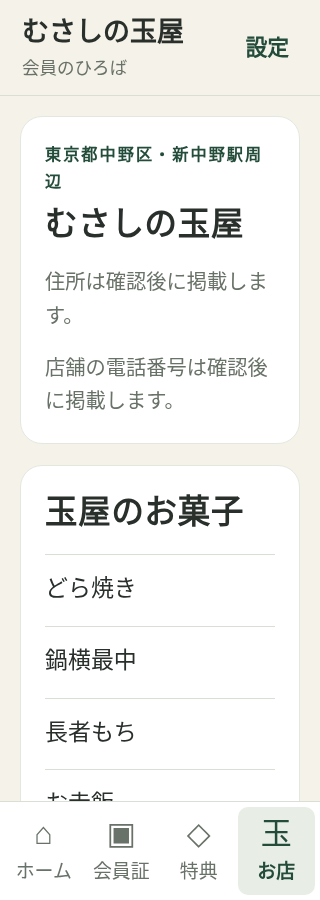
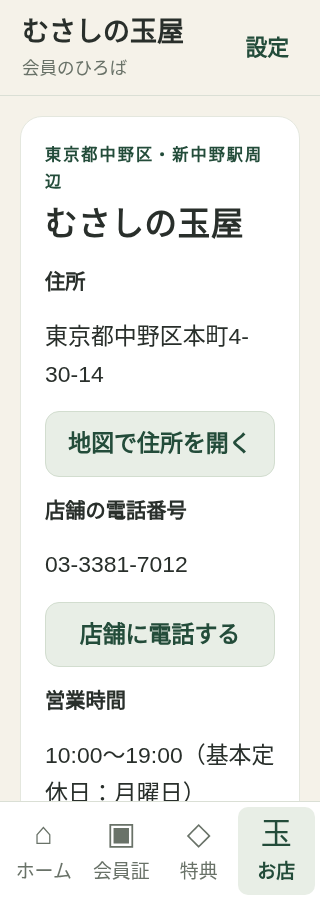
Publish provided store details and hide product listings

Changed region(s): [[0.125, 0.28, 0.875, 0.9022], [0.625, 0.8089, 0.8438, 0.8711], [0.7812, 0.28, 0.8125, 0.3422]]

diff --git a/src/screens/CustomerScreens.tsx b/src/screens/CustomerScreens.tsx
@@ -238,18 +238,6 @@ export function CustomerScreens({ tab, data, onTab, onRegister }: Props) {
         {tab === 'お店' && (
           <>
             <View style={cs.storeIntro}><Text style={styles.eyebrow}>お店のご案内</Text><Text accessibilityRole="header" style={[cs.shopName, { marginTop: 8 }]}>{shop.name}</Text><Muted>{shop.area}</Muted><View style={cs.storeAccent} /></View>
-            <SectionHeader title="玉屋のお菓子" caption="おなじみの、四つの名前" />
-            <View style={cs.productGrid}>
-              {shop.products.map((product, index) => (
-                <View key={product.id} style={[cs.product, { width: wide ? '23.5%' : '47.8%' }]}>
-                  <View accessibilityElementsHidden importantForAccessibility="no-hide-descendants" style={[cs.productArt, index === 1 && { backgroundColor: '#EEEBE1' }, index === 2 && { backgroundColor: '#EDF1E8' }, index === 3 && { backgroundColor: '#F1E8E5' }]}><Text accessible={false} allowFontScaling={false} style={[cs.productSymbol, index === 3 && { color: '#9A6559' }]}>{product.motif}</Text><View style={cs.productArtLine} /></View>
-                  <Text style={cs.productName}>{product.name}</Text>
-                  {product.description && <Muted>{product.description}</Muted>}
-                  {product.price !== null && <Text style={styles.label}>{yen(product.price)}円</Text>}
-                </View>
-              ))}
-            </View>
-            <Muted style={{ fontSize: 11, textAlign: 'right' }}>商品は文字と図形によるイメージです。</Muted>
             <Card>
               <Heading style={{ fontSize: 21 }}>店舗情報</Heading>
               <InfoRow label="エリア" value={shop.area} />
@@ -257,7 +245,6 @@ export function CustomerScreens({ tab, data, onTab, onRegister }: Props) {
               <InfoRow label="営業時間" value={shop.hours ?? '店舗情報を確認中です'} />
               <InfoRow label="電話番号" value={shop.phone ?? '店舗情報を確認中です'} />
               {(shop.address || shop.phone) && <View style={styles.row}>{shop.address && <Button label="地図で見る　↗" variant="secondary" onPress={() => { void Linking.openURL(`https://www.google.com/maps/search/?api=1&query=${encodeURIComponent(shop.address!)}`); }} />}{shop.phone && <Button label="電話をかける" variant="secondary" onPress={() => { void Linking.openURL(`tel:${shop.phone}`); }} />}</View>}
-              <Muted style={{ fontSize: 11 }}>商品の取り扱い・価格、店舗情報は試作版では未掲載です。</Muted>
             </Card>
             <SectionHeader title="お知らせ" caption="玉屋からのご案内" />
             <Card style={{ gap: 0 }}>
@@ -366,12 +353,6 @@ const cs = StyleSheet.create({
   couponList: { flexDirection: 'row', flexWrap: 'wrap', gap: 18, justifyContent: 'space-between' },
   storeIntro: { paddingVertical: 8, gap: 10 },
   storeAccent: { width: 44, height: 3, backgroundColor: theme.gold, marginTop: 9 },
-  productGrid: { flexDirection: 'row', gap: 12, flexWrap: 'wrap', justifyContent: 'space-between' },
-  product: { gap: 13, marginBottom: 8 },
-  productArt: { aspectRatio: 1.02, backgroundColor: '#EEE8D8', borderRadius: 20, alignItems: 'center', justifyContent: 'center', overflow: 'hidden' },
-  productSymbol: { fontSize: 91, color: '#A58E62', fontWeight: '300', lineHeight: 112 },
-  productArtLine: { width: '66%', height: 1, backgroundColor: '#B8AB8C', position: 'absolute', bottom: 26, opacity: 0.5 },
-  productName: { color: theme.ink, fontSize: 19, lineHeight: 30, letterSpacing: 1.2, fontWeight: '600' },
   infoRow: { flexDirection: 'row', flexWrap: 'wrap', alignItems: 'flex-start', gap: 12 },
   infoLabel: { width: 85, fontSize: 15, lineHeight: 25, color: theme.muted },
   infoValue: { flex: 1, minWidth: 130, fontSize: 16, lineHeight: 27, color: theme.ink },

diff --git a/tests/production.browser.spec.ts b/tests/production.browser.spec.ts
@@ -301,7 +301,32 @@ test('small screens and larger browser text retain four customer routes and usab
         }
       }
     }
-    await customer.page.getByRole('tab', { name: 'お店', exact: true }).click(); await capture(customer.page, 'shop-small');
+    await customer.page.getByRole('tab', { name: 'お店', exact: true }).click();
+    await expect(customer.page.getByText('東京都中野区本町4-30-14', { exact: true })).toBeVisible();
+    await expect(customer.page.getByText('03-3381-7012', { exact: true })).toBeVisible();
+    await expect(customer.page.getByText('10:00〜19:00（基本定休日：月曜日）', { exact: true })).toBeVisible();
+    await expect(customer.page.getByRole('button', { name: '店舗に電話する', exact: true })).toBeVisible();
+    await expect(customer.page.getByText('会員サービスのお問い合わせ：080-4909-7012', { exact: true })).toBeVisible();
+    await expect(customer.page.getByRole('heading', { name: '玉屋のお菓子', exact: true })).toHaveCount(0);
+    for (const name of ['どら焼き', '鍋横最中', '長者もち', 'お赤飯']) {
+      await expect(customer.page.getByText(name, { exact: true })).toHaveCount(0);
+    }
+    // Exercise the actual map button without navigating to an external service.
+    await customer.page.evaluate(() => {
+      const state = window as unknown as { storeOriginalOpen: typeof window.open; storeOpenedUrl?: string };
+      state.storeOriginalOpen = window.open;
+      window.open = ((url) => { state.storeOpenedUrl = String(url); return null; }) as typeof window.open;
+    });
+    try {
+      await customer.page.getByRole('button', { name: '地図で住所を開く', exact: true }).click();
+      const value = await customer.page.evaluate(() => (window as unknown as { storeOpenedUrl?: string }).storeOpenedUrl);
+      const map = new URL(value!);
+      expect(map.origin).toBe('https://maps.apple.com');
+      expect(map.searchParams.get('q')).toBe('むさしの玉屋 東京都中野区本町4-30-14');
+    } finally {
+      await customer.page.evaluate(() => { window.open = (window as unknown as { storeOriginalOpen: typeof window.open }).storeOriginalOpen; });
+    }
+    await capture(customer.page, 'shop-small');
   } finally { await customer.context.close(); }
 });
 

diff --git a/tests/browser.flows.spec.ts b/tests/browser.flows.spec.ts
@@ -294,6 +294,30 @@ test('customer and staff controls fit each viewport with 48px touch targets and 
   await showSample(page);
   for (const tab of ['ホーム', '会員証', '特典', 'お店']) {
     await page.getByRole('tab', { name: tab, exact: true }).click();
+    if (tab === 'お店') {
+      await expect(page.getByText('東京都中野区本町4-30-14', { exact: true })).toBeVisible();
+      await expect(page.getByText('03-3381-7012', { exact: true })).toBeVisible();
+      await expect(page.getByText('10:00〜19:00（基本定休日：月曜日）', { exact: true })).toBeVisible();
+      await expect(page.getByRole('button', { name: '電話をかける', exact: true })).toBeVisible();
+      await expect(page.getByText('玉屋のお菓子', { exact: true })).toHaveCount(0);
+      for (const name of ['どら焼き', '鍋横最中', '長者もち', 'お赤飯']) {
+        await expect(page.getByText(name, { exact: true })).toHaveCount(0);
+      }
+      await page.evaluate(() => {
+        const state = window as unknown as { storeOriginalOpen: typeof window.open; storeOpenedUrl?: string };
+        state.storeOriginalOpen = window.open;
+        window.open = ((url) => { state.storeOpenedUrl = String(url); return null; }) as typeof window.open;
+      });
+      try {
+        await page.getByRole('button', { name: '地図で見る　↗', exact: true }).click();
+        const value = await page.evaluate(() => (window as unknown as { storeOpenedUrl?: string }).storeOpenedUrl);
+        const map = new URL(value!);
+        expect(map.origin).toBe('https://www.google.com');
+        expect(map.searchParams.get('query')).toBe('東京都中野区本町4-30-14');
+      } finally {
+        await page.evaluate(() => { window.open = (window as unknown as { storeOriginalOpen: typeof window.open }).storeOriginalOpen; });
+      }
+    }
     await expectLayout(page);
     if (tab === 'ホーム') await expectHomeActionAboveNavigation(page);
     await enlargeText(page);

diff --git a/src/production/ProductionApp.tsx b/src/production/ProductionApp.tsx
@@ -310,7 +310,7 @@ function Main({ api, auth }: { api: ProductionApi; auth: AuthPort }) {
       {store.address ? <><Text style={styles.label}>住所</Text><Text selectable style={styles.body}>{store.address}</Text><Button label="地図で住所を開く" variant="secondary" onPress={() => { void openLink(`https://maps.apple.com/?q=${encodeURIComponent(`${store.name} ${store.address}`)}`); }} /></> : <Muted>住所は確認後に掲載します。</Muted>}
       {store.phone ? <><Text style={styles.label}>店舗の電話番号</Text><Text selectable style={styles.body}>{store.phone}</Text><Button label="店舗に電話する" variant="secondary" onPress={() => { if (store.phone) void openLink(`tel:${store.phone.replace(/[^+\d]/g, '')}`); }} /></> : <Muted>店舗の電話番号は確認後に掲載します。</Muted>}
       {store.hours && <><Text style={styles.label}>営業時間</Text><Text style={styles.body}>{store.hours}</Text></>}
-    </Card><Card><Heading>玉屋のお菓子</Heading>{store.products.map((product) => <View key={product.id} style={s.listItem}><Text style={styles.body}>{product.name}</Text></View>)}</Card>
+    </Card>
       <Notices notices={notices} /><RuleNote store={store} /><Card><Heading>アプリについて</Heading>
         <Muted>会員サービス運営者：{store.operator.name}</Muted><Muted>会員サービスのお問い合わせ：{store.operator.phone}</Muted>
         <Button label="お問い合わせ・機種変更のご案内" variant="secondary" onPress={() => setLegal('support')} />

diff --git a/src/config/shop.ts b/src/config/shop.ts
@@ -1,18 +1,14 @@
 export const shop = {
   name: 'むさしの玉屋',
   area: '東京都中野区・新中野駅周辺',
-  address: null as string | null,
-  phone: null as string | null,
-  hours: null as string | null,
+  address: '東京都中野区本町4-30-14' as string | null,
+  phone: '03-3381-7012' as string | null,
+  hours: '10:00〜19:00（基本定休日：月曜日）' as string | null,
+  informationSource: '店舗関係者からの提供情報（2026年10月31日）',
   colors: {
     cream: '#F5F2E9', white: '#FFFFFF', ink: '#292F2B', green: '#234C3A',
     muted: '#697268', line: '#DADFD5', pale: '#E8EEE6', gold: '#92753E',
   },
-  products: [
-    { id: 'dorayaki', name: 'どら焼き', motif: '〇', description: null, price: null },
-    { id: 'monaka', name: '鍋横最中', motif: '◇', description: null, price: null },
-    { id: 'mochi', name: '長者もち', motif: '◯', description: null, price: null },
-    { id: 'sekihan', name: 'お赤飯', motif: '▦', description: null, price: null },
-  ],
+  products: [] as { id: string; name: string; motif: string; description: string | null; price: number | null }[],
   reward: { stampsRequired: 10, discountYen: 100, validityDays: 30, dailyLimit: 1 },
 } as const;

diff --git a/docs/PRODUCTION_HANDOVER.md b/docs/PRODUCTION_HANDOVER.md
@@ -27,7 +27,7 @@
 
 スタンプ・特典条件と、メール・パスワードによるログインは回答済みです。500円以上の対象商品のお会計で1日1個、5個でスタッフが選ぶ当日の生菓子1つ、有効90日、交換時の追加購入不要、他の割引・クーポンとの併用可を実装へ反映しています。アプリでの商品抽選は行いません。
 
-1. **正しい店舗住所・店舗電話を確認する。** 店舗の資料などで確認します。ワンエイトの電話は、会員サービスの問い合わせ先として別に掲載します。
+1. **掲載する店舗情報を確認する。** 2026年10月31日に店舗住所・店舗電話・営業時間・基本定休日を受領し、設定へ反映しました。個別の商品名は表示しません。ワンエイトの電話は会員サービスの問い合わせ先として別に掲載します。
 2. **Firebase・Supabase・サーバー公開先のアカウントを自分の管理下で用意する。** 下の手順で作成します。料金や本人確認への同意は所有者が行います。
 3. **秘密情報を公開しない設定欄に登録する。** パスワード・DB接続文字列・Firebase Admin秘密鍵は、チャット、GitHub、アプリの公開設定へ貼り付けません。
 4. **最初のオーナーになるアカウントを作り、メール確認を完了する。** そのUIDをサーバーの初回設定で登録します。以後のスタッフ追加・停止はオーナーが店舗用画面で行います。
@@ -72,6 +72,8 @@ Firebaseは、今回はログインだけに使います。Firestore、Firebase 
 8. ブラウザー公開版を使う場合は、実際の公開ドメインをAuthenticationの承認済みドメインへ追加します。設定画面の名称は変更される場合があります。
 
 2026年10月30日時点で、上記のWebアプリ登録と公開設定4項目の受け渡しは完了しています。最新版の直下`.env.example`には受け取った設定が入力済みです。管理APIのURLはまだ決まっていないため空欄のままです。この段階では実サービスへログインできたとは扱いません。
+
+2026年10月31日には管理APIのURLも確定し、設定例は`https://tamayaapp.onrender.com`へ更新しています。店舗関係者から住所「東京都中野区本町4-30-14」、店舗電話「03-3381-7012」、営業時間「10:00〜19:00」、基本定休日「月曜日」を受領しました。基本定休日という表現を保持し、個別の商品名と商品一覧は表示しない構成に更新しました。会員サービス運営者の問い合わせ番号は別のままです。
 
 サーバーには、IDトークンを検証し、退会時に対象ユーザーを削除できる管理用の認証が必要です。Google Cloud上の実行用サービスアカウントを使うか、サーバー公開先の秘密ファイルとしてサービスアカウントJSONを登録します。JSONはGitHubに置かず、アプリにも含めません。サーバーだけに必要な権限を与えます。
 
@@ -311,6 +313,12 @@ npm start -- --go --clear
 起動後のQRをiPhoneの標準カメラで読み取り、Expo Goで開きます。黒い画面は開いたままにしてください。起動用QRの詳しい場所と操作は[iPhone手順](IPHONE.md)を参照してください。今回追加したFirebase JavaScript SDKはExpo Goで使う構成で、React Native Firebaseのネイティブライブラリを追加する手順ではありません。Expo GoとプロジェクトのSDKが一致することは、その時点の端末表示でも確認します。
 
 PCブラウザーで画面を開く操作は、起動中の黒い画面で`w`です。ただし実Render APIへブラウザーから接続するには、そのブラウザーの接続元をサーバーの`CORS_ORIGINS`へ登録する必要があります。今回のネイティブiPhone用設定ではブラウザーのAPI通信を許可していないため、まずiPhoneのExpo Goで確認します。アプリを停止する場合はCtrl＋Cです。
+
+### すでに起動中のiPhoneプレビューへ店舗情報の変更を反映する
+
+Windowsの展開済みフォルダーは、GitHubへの更新だけでは書き換わりません。今回の本番用画面変更は`src/production/ProductionApp.tsx`の1ファイルを担当が案内する最新版へ取得すれば反映できます。Expoを起動した画面を開いたまま、別のコマンド画面をアプリ直下で使います。新しい依存の導入は不要です。
+
+店舗住所・電話・営業時間は管理APIから取得します。Renderが最新コミットを自動デプロイしていない場合は、対象Web Serviceの`Manual Deploy`から`Deploy latest commit`を実行し、`Live`を確認します。その後アプリの「設定」→「最新の情報に更新」→「お店」を開いて確認します。自動デプロイが進んでいる場合は、その完了を待ちます。クライアントの画面更新とサーバー設定の適用を、実機での表示確認まで終わったとは扱いません。
 
 ### 初回の本人登録とログイン確認
 

diff --git a/docs/VALIDATION.md b/docs/VALIDATION.md
@@ -1,5 +1,11 @@
 # 現在の検証結果（本番接続版）
 
+2026年10月31日追記（店舗情報と商品表示）：店舗関係者から提供された住所「東京都中野区本町4-30-14」、店舗電話「03-3381-7012」、営業時間「10:00〜19:00」、基本定休日「月曜日」を本番設定と旧デモ設定へ反映し、出典を記録しました。外部サイトで独立に確認した情報ではありません。「商品名は表示しない」という指示に合わせ、商品配列を空にし、本番・旧デモの両方から商品一覧の表示自体を削除しました。運営者の問い合わせ番号と店舗電話を分け、問い合わせ文の古い未掲載表示も修正しています。
+
+アプリ型検査・41件の自動テスト、本番接続用ブラウザー4件、旧デモのブラウザー12件が成功しました。ブラウザーは実際のローカルFirebase認証エミュレーター・PostgreSQL・APIを使う隔離された構成です。店舗情報、商品名と空の商品欄がないこと、地図ボタンから正しい住所のURLを開くこと（外部へ接続せず検証）、幅320/390と文字1.35倍を確認しました。電話ボタンは存在を確認し、実際の電話発信は行っていません。更新した画像は`docs/screenshots/production/shop-small.png`と`docs/screenshots/shop.png`です。
+
+実iPhoneの最新表示、電話・地図アプリの起動、実Renderへの設定適用は未確認です。PCの展開済みファイルの更新とサーバーの最新デプロイが必要です。特典条件と法的文書の版は変更せず、配布前チェックから店舗情報不足の指摘が解消したことを確認しました。iOS Bundle Identifier・公開文書の正式化・運営者の公開前確認は残っています。
+
 2026年10月31日追記（所有者による初回設定完了の報告）：iPhoneでの起動・登録、アプリ設定のログインID確認に続き、所有者からSQL Editorによるオーナー設定手順を完了したとの報告を受けました。次にご自身の会員を使い、499円の画面側の制限、500円の付与、当日の追加不可、お客様画面の残高・履歴の反映を確認します。まだこれらの操作結果、別端末のQR読み取り、特典発行・使用の実機結果は受けていません。実機の進捗は所有者の報告に基づき、こちらが直接端末を操作した結果とは区別します。今回の変更は案内と状態記録のみで、アプリ・APIの変更はありません。
 
 2026年10月31日追記（オーナー設定のDB通信）：所有者のWindowsでファイル選択が使え、Firebaseのユーザー確認後にDBパスワード入力へ進んだ画面を受けました。その後は`DB_NETWORK_FAILED`で停止しており、権限付与結果は未確認です。CLIの処理順から、JSONのプロジェクト一致・対象ユーザーの存在・メール確認済み・停止されていないことの確認までは完了しています。

diff --git a/docs/OPERATING_RULES.md b/docs/OPERATING_RULES.md
@@ -1,6 +1,6 @@
 # むさしの玉屋 会員サービスの運用ルール
 
-更新日：2026年10月27日（日本時間）。利用者から提供された正式条件と追加回答を整理した文書です。スタンプと特典の条件は回答済みで、店舗設定の`tamaya-formal-1`へ反映しています。
+更新日：2026年10月31日（日本時間）。利用者から提供された正式条件と追加回答を整理した文書です。スタンプと特典の条件は回答済みで、店舗設定の`tamaya-formal-1`へ反映しています。
 
 ## 店舗・運営者
 
@@ -10,10 +10,14 @@
 | 店舗の地域 | 東京都中野区、新中野駅周辺 |
 | 会員サービスの運営者 | ワンエイト |
 | サービスの問い合わせ電話 | 080-4909-7012 |
-| 店舗の住所・電話番号・営業時間 | 公式資料による確認待ち。サービスの問い合わせ電話を、店舗の電話として掲載しない |
+| 店舗住所 | 東京都中野区本町4-30-14 |
+| 店舗電話番号 | 03-3381-7012 |
+| 営業時間 | 10:00〜19:00 |
+| 基本定休日 | 月曜日 |
+| 商品名・商品一覧 | 個別の商品名は表示しない |
 | お客様の利用料 | 無料。アプリ内の課金機能は設けない |
 
-店舗の公式住所・電話番号は、この環境の外部サイトへのアクセス制限により確認できませんでした。推測値を登録せず、店舗の資料などで確認できてから設定します。
+店舗情報は2026年10月31日に店舗関係者である依頼者から受領しました。外部サイトで独立に確認した情報ではなく、提供者を設定の出典に記録しています。月曜日は「基本定休日」として扱い、例外なく毎週休業するとは表示しません。
 
 ## 正式なスタンプ・特典の条件
 
@@ -105,7 +109,7 @@ QRは会員を提示するための短時間有効な情報で、有効期間は
 
 スタンプ・特典の条件に関する追加回答は不要です。残る次の準備がそろった後に、実際のお客様向けの運用を開始します。
 
-- 正しい店舗住所・電話番号、掲載する営業時間。
+- 掲載済みの店舗情報の最終確認と、臨時休業などのお知らせ運用。
 - 公開用の利用規約・プライバシー・問い合わせページの内容。実際の委託先・保存地域・保管期間も運営者が確認する。
 - 実際に使うFirebase・Supabase・サーバー公開先のアカウントと接続設定。
 - バックアップ、障害時の連絡、登録メールが使えない場合の本人確認方法。
